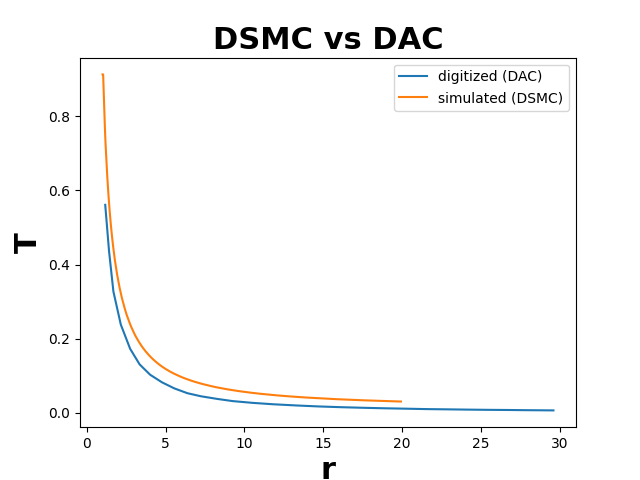
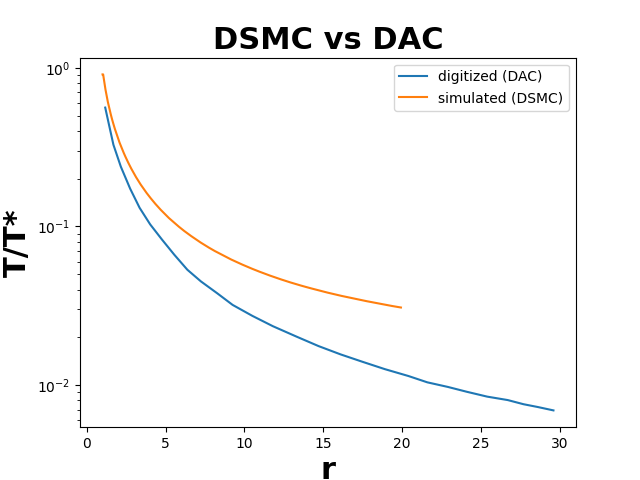
update plots to graph normalizaed data, and on a log scale

diff --git a/cases/1d/graphCaseValidation.py b/cases/1d/graphCaseValidation.py
@@ -33,7 +33,7 @@ digi_T = pd.read_csv(
     )
 
 sim = pd.read_csv(
-    curr_dir_path + '/postProcessing/sampleDict/0.36/horizontalLine_Ttra_Ar_rhoN_Ar.csv'
+    curr_dir_path + '/postProcessing/sampleDict/0.3/horizontalLine_Ttra_Ar_rhoN_Ar.csv'
     )
 
 print(sim['Ttra_Ar'])
@@ -50,15 +50,17 @@ plt.xlabel('r', fontdict = font_axis_publish)
 plt.plot(digi_n['r'], digi_n['n_nstar'], label = 'digitized (DAC)')
 plt.plot(sim['x'], sim['rhoN_Ar'], label = 'simulated (DSMC)')
 plt.legend()
+plt.yscale('log')
 plt.savefig(curr_dir_path + '/digitized_vs_analytical_n.png')
 plt.close()
 
 plt.title('DSMC vs DAC', fontdict = font_axis_publish)
-plt.ylabel('T', fontdict = font_axis_publish)
+plt.ylabel('T/T*', fontdict = font_axis_publish)
 plt.xlabel('r', fontdict = font_axis_publish)
 
 plt.plot(digi_T['r'], digi_T['T_Tstar'], label = 'digitized (DAC)')
 plt.plot(sim['x'], sim['Ttra_Ar'], label = 'simulated (DSMC)')
 plt.legend()
+plt.yscale('log')
 plt.savefig(curr_dir_path + '/digitized_vs_analytical_T.png')
 plt.close()
